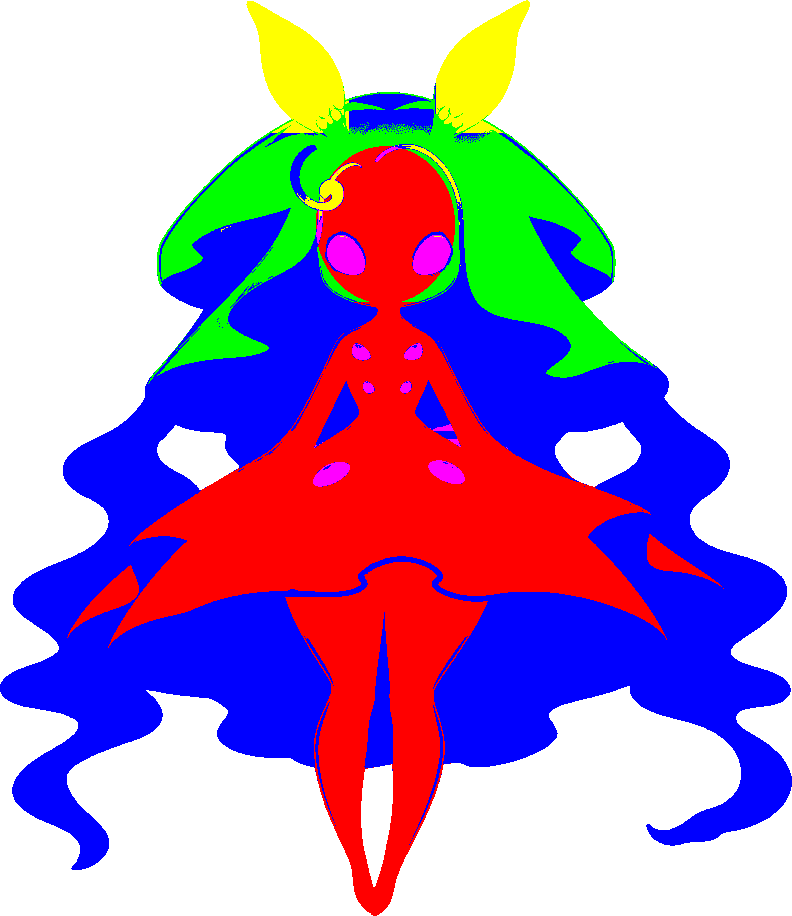
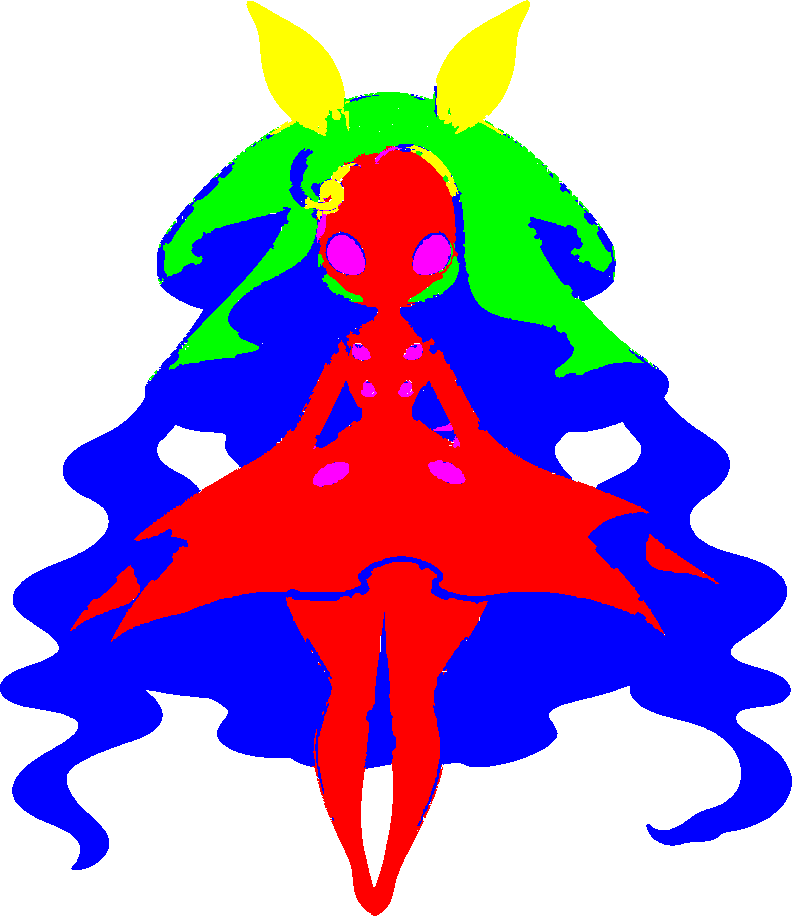
染色マスクの見直し: イルミネの頭のてっぺんを後ろの髪へそろえた
頭のてっぺんの暗い紫(後ろの髪②)が、四角い③(光る髪)のかたまりになっていて、濃い色で染めると
頭に横帯の色むらが出ていた。②から明るさ0.5以下の画素を色をたどって広げ、境目を絵の線へ寄せた。
エイキは区分けを部長に確かめ中(写真 eiki-question.jpg)。

Claude-Session: https://claude.ai/code/session_01FMnScf6fx7a1Bakahouj7w

diff --git a/monster-hero/index.html b/monster-hero/index.html
@@ -102,7 +102,7 @@ var GAME_BUILD = 'b597777467cf';
 window.__mhGameBuild = GAME_BUILD;
 // 画面に出す版の日時(BUILD_DATE)。本体の中に書くと、ビルドのたびに本体の中身(と GAME_BUILD)が変わり、
 // 事前ダウンロードにためた本体が使えなくなるので、ここから渡す。tools/stamp-version.js が version.json と同じ値を打つ
-window.__mhBuildDate = '2026-10-27 04:06';
+window.__mhBuildDate = '2026-10-27 04:12';
 // 起動でいちばん大きいのは本体JS(約2.7MB)。いちばん後ろで読むため、そこへ来ると
 // ゲージが止まって見えていた。先に取りはじめて、受け取ったバイト数をそのまま出す。
 // ここで取ったものはブラウザのキャッシュに載るので、下の <script> は取り直さない
@@ -2245,7 +2245,7 @@ window.__mhBoot.prefetch('game-system.compiled.js', 'game-system.compiled.js?v='
 <body>
 <div id="loading"><div class="static-mocchi"><img id="static-mocchi-image" alt="モッチー"><span></span></div><section class="static-copy"><h1>NOW LOADING</h1><h2>冒険の準備をしています</h2><div class="static-progress"><span></span></div><strong>0%</strong><p>ゲームシステムを起動中</p></section></div>
 <div id="root"></div>
-<script src="data/images/images-ally.js?v=99369832c5fe" onload="__mhBoot.done('data/images/images-ally.js','モンスターの絵を読み込み中')" onerror="__mhBoot.fail('data/images/images-ally.js')"></script>
+<script src="data/images/images-ally.js?v=0ae57e5e9467" onload="__mhBoot.done('data/images/images-ally.js','モンスターの絵を読み込み中')" onerror="__mhBoot.fail('data/images/images-ally.js')"></script>
 <script>try{document.getElementById('static-mocchi-image').src=MOCCHI_IMG}catch(e){}</script>
 <script src="data/images/images-enemy.js?v=f10f6ad82110" onload="__mhBoot.done('data/images/images-enemy.js','敵モンスターの絵を読み込み中')" onerror="__mhBoot.fail('data/images/images-enemy.js')"></script>
 <script src="data/ally-monsters.js?v=51d6430d98dd" onload="__mhBoot.done('data/ally-monsters.js','モンスターデータを読み込み中')" onerror="__mhBoot.fail('data/ally-monsters.js')"></script>

diff --git a/tools/image/refine-dye-mask.js b/tools/image/refine-dye-mask.js
@@ -42,6 +42,9 @@ const CONFIGS = {
   ] },
   // 黒目は②。明るい下半分と右のふちが体①に入っていた。黒目②から、色が続くかぎり体①へ広げる(黒目のまわりの黒い線で止まる)。
   // 最初は円で指示していて、円を y=405 で切った所に黒目の上のふちが体のまま残っていた(2026-10-27 部長の指摘で作り直し)
+  // 頭のてっぺんの暗い紫(明るさ0.36〜0.47)は後ろの髪②なのに、四角い③(光る髪)のかたまりになっていた。
+  // ②から、明るさ0.5以下の画素をたどって③へ広げる(光る髪は明るいので動かない)
+  Illumine: { grow: [{ from: 2, to: 1, diff: 40, val: [0, 0.5], box: [230, 60, 580, 280] }] },
   // 黒目は彩度1.0、まぶたの黄色は0.57なので、彩度0.85以上の画素だけ進む
   // 黒目のふちの暗い帯も黒目なので、暗い画素(線の扱い)も進む(lines)
   Suezo: { grow: [{ from: 0, to: 1, diff: 40, sat: [0.85, 1], lines: true, box: [400, 360, 760, 690] }] },
@@ -193,6 +196,7 @@ const refine = (srcData, Lin, W, H, cfg) => {
       for (const i of front) for (const j of nb4(i)) {
         if (!(Array.isArray(g.from) ? g.from.includes(L[j]) : L[j] === g.from) || !inB(j) || (isLine(j) && !g.lines) || !opaque(j) || d(px(i), px(j)) > g.diff) continue;
         if (g.sat) { const sa = hsvOf(srcData, j)[1]; if (sa < g.sat[0] || sa > g.sat[1]) continue; }
+        if (g.val) { const va = hsvOf(srcData, j)[2]; if (va < g.val[0] || va > g.val[1]) continue; }
         if (g.hue) { const h = hsvOf(srcData, j)[0]; if (!(g.hue[0] <= g.hue[1] ? (h >= g.hue[0] && h <= g.hue[1]) : (h >= g.hue[0] || h <= g.hue[1]))) continue; }
         L[j] = g.to; grown++; next.push(j);
       }

diff --git a/monster-hero/data/images/images-ally.js b/monster-hero/data/images/images-ally.js
@@ -167,7 +167,7 @@ const KUROMY_DYE_MASK = "images/monsters/kuromy-dye-mask.PNG?v=7e06f8e564b2";
 // イルミネ・ドリーミィ(2026-10-22・案の段階・イルミネ×イルミネ / イルミネ×ニャー)。
 // 元絵は tools/art-sources/new-monsters-2026-10-22/。透明な余白を切って高さ916pxへ縮め、256色へ減色(グラデーションの段が出ないよう誤差拡散)
 const ILLUMINE_IMG = "images/monsters/illumine.png?v=856c3192a848";
-const ILLUMINE_DYE_MASK = "images/monsters/illumine-dye-mask.PNG?v=f129752bb07a";
+const ILLUMINE_DYE_MASK = "images/monsters/illumine-dye-mask.PNG?v=ecdc51013525";
 const DREAMY_DYE_MASK = "images/monsters/dreamy-dye-mask.PNG?v=0a38c9def40d";
 const DREAMY_IMG = "images/monsters/dreamy.png?v=14e1f738cec9";
 // 新しい16種(2026-10-24・まだ味方には入れていない)。ファイル名はカードの種族名(data/card-battle-cards.js の species)。

diff --git a/docs/progress/dye-mask-review/README.md b/docs/progress/dye-mask-review/README.md
@@ -21,8 +21,8 @@
 | 2 | ヤオビクニ `Yaobikuni` | 大 | 肌と髪・桃色の後ろ髪の境目が大きくずれる。頬に四角い切れ目。左右の腕で部位が食い違う(左は肌色まで①、右は上半分だけ③) | **直した**(`yaobikuni.png`)。腕は「肌色→肌③・緑のひれ→①」にそろえた |
 | 3 | パンドラ `Pandora` | 大 | 髪の左右の境目が絵より6画素ほど右(肌色の髪に紫が入る)。スカートの折り目の線が塗り残しで、濃い色で白い筋 | **直した**(`pandora.png`)。髪の左右の境目が絵の線に乗った・スカートの折り目の白い筋が消えた |
 | 4 | タイガー `Tiger` | 大 | あご下・胸の陰になった白い毛が体の部位。右後ろ足が縦一直線で切れる。尾の先の白は染まらない(四角い範囲の外) | **直した**(`tiger.png`)。白い毛を色で②へ。尾の先の白は今までどおり染めない(分け方の話なので部長に案) |
-| 5 | エイキ `Eiki` | 大 | 白い鎧のふちに塗り残しの白い筋。足元の花びらに桃色の点が多数。顔まわりの境目が線の2〜3画素内側 | これから |
-| 6 | イルミネ `Illumine` | 大 | 頭のてっぺんに四角い部位の区切り(下のふちがざらざら)、濃い色で頭に横帯の色むら。フードの2色の境目に点が散る | これから |
+| 5 | エイキ `Eiki` | 大 | 白い鎧のふちに塗り残しの白い筋。足元の花びらに桃色の点が多数。顔まわりの境目が線の2〜3画素内側。房飾りが1本の中で①と③に縦に切れている・羽の内側の濃い紫が③と染めないのまだら | 区分けを部長に質問中(`eiki-question.jpg`) |
+| 6 | イルミネ `Illumine` | 大 | 頭のてっぺんに四角い部位の区切り(下のふちがざらざら)、濃い色で頭に横帯の色むら。フードの2色の境目に点が散る | **直した**(`illumine.png`)。頭の暗い紫を②へ(明るさ0.5以下を②からたどる)。残り: 左の髪飾りのまわり(x 300〜315・y 170〜200)に③の小さなかたまり、脚のあいだの光る筋に小さな出っぱり2つ |
 | 7 | ドリーミィ `Dreamy` | 大 | 足に四角い切れ目(形で決めた跡)。目のまわり・胸の飾りに点が散る | これから |
 | 8 | おぼろ `Oboro` | 大 | 花びらの中の水色のぼかしが塗り残しでギザギザ。左右の花の下が横一直線に切れる | これから |
 | 9 | スエゾー `Suezo` | 大 | 瞳のふちが点線状に塗り残し(白で瞳のまわりに点線)。黒目の下半分と右のふちが体の部位。外側の輪郭に白い点の列 | **直した**(`suezo.png`)。黒目全体を②・瞳のふちの点線を消した |
@@ -71,6 +71,7 @@
 | パンドラ | `pandora.png` |
 | タイガー | `tiger.png` |
 | スエゾー | `suezo.png` |
+| イルミネ | `illumine.png` |
 
 ## 訂正(2026-10-27)
 
